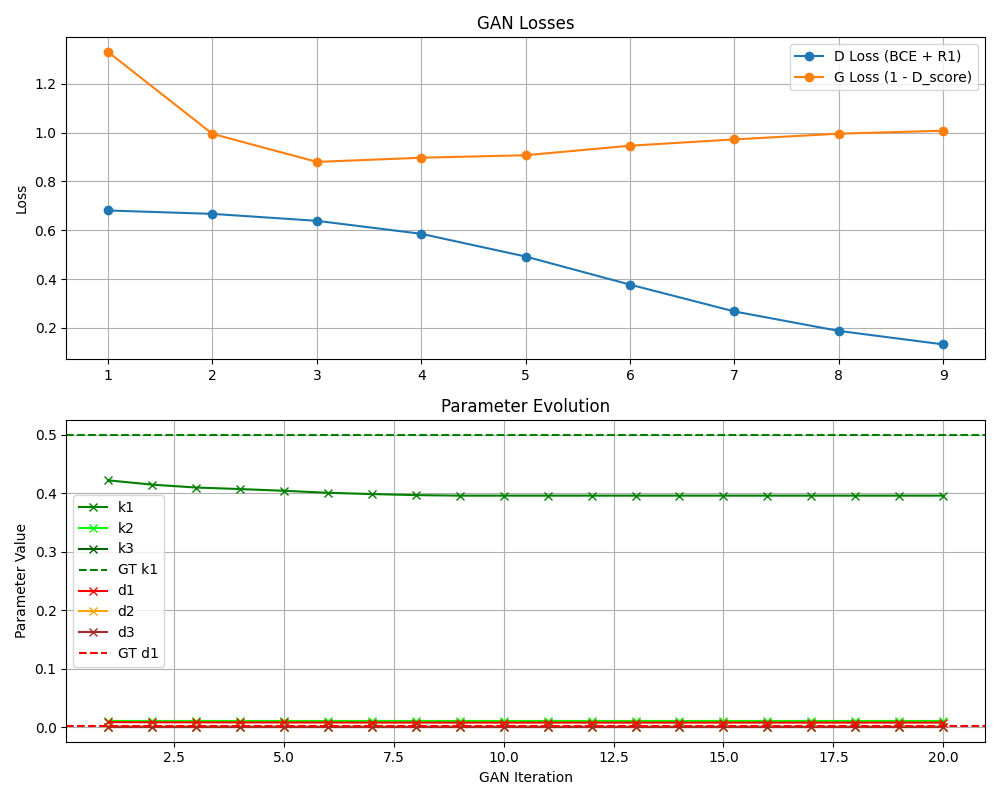
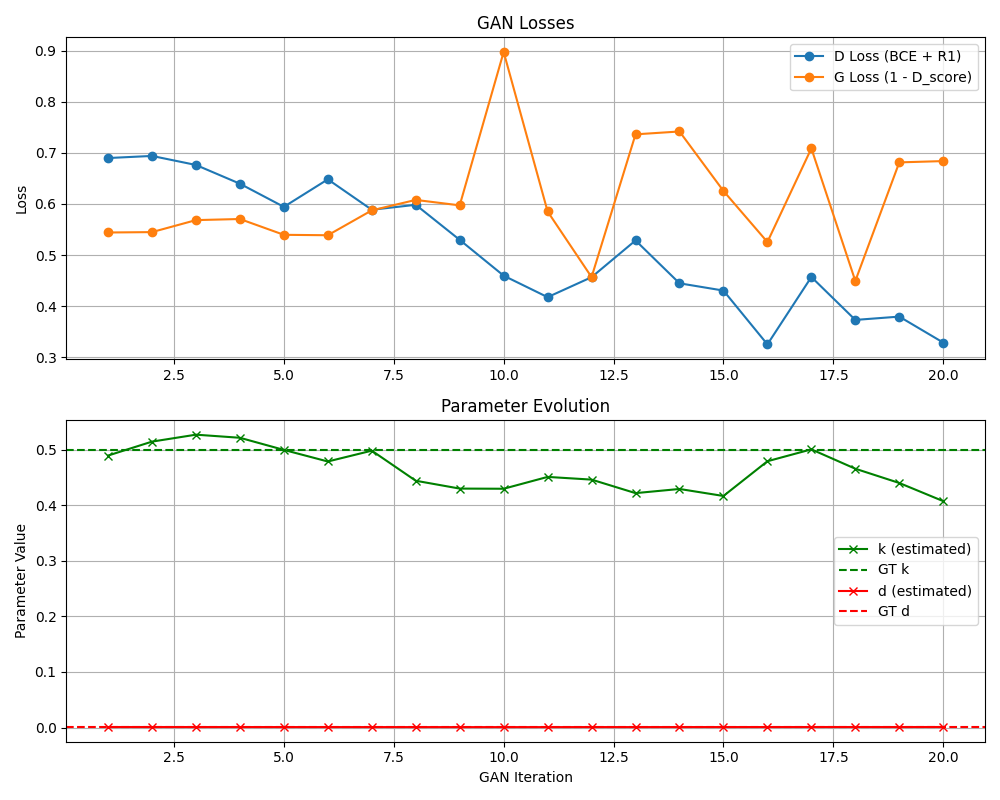
did the smaller traing against Mujocjo

diff --git a/adversarial_training.py b/adversarial_training.py
@@ -46,24 +46,24 @@ def get_default_config():
         "num_goals": 10,
         "num_goals_gen_train": 5,
         "goal_dist_mean": [0.0, 0.0, 0.0],
-        "goal_dist_std": [0.10, 0.0, 0.0],
+        "goal_dist_std": [1.0, 0.0, 0.0],
         "gan_iterations": 20,
-        "disc_type": "mlp",
+        "disc_type": "lstm",
         "d_epochs": 10,
-        "d_lr": 0.0001,
+        "d_lr": 0.00025,
         "d_batch_size": 16,
         "d_r1_gamma": 1e-3,          # ← NEW: set to 0.0 to disable R1 reg
         "g_optim_algo": "GD",
         "g_max_iters": 10,#10,
-        "g_lr": 0.00125,
+        "g_lr": 0.0025,
         "g_eps": 0.0001,
-        "g_reg": 0,#1e-1,
-        "g_l2_weight": 1e-8,
-        "init_k": 0.2,#[0.4, 0.0001, 0.00005],
-        "init_d": 0.01,#[0.01, 0.0002, 0.00002],
+        "g_reg": 1e-1,
+        "g_l2_weight": 1e-5,
+        "init_k": 0.5,#[0.4, 0.0001, 0.00005],
+        "init_d": 0.001,#[0.01, 0.0002, 0.00002],
         "gt_k": 0.5,#[0.5, 0.0005, 0.00005],
         "gt_d": 0.001,#[0.001, 0.0001, 0.00001],
-        "use_com_free_for_gt": True,
+        "use_com_free_for_gt": False,
         "output_dir": "./gan_comfree_tests_results"
     }
 